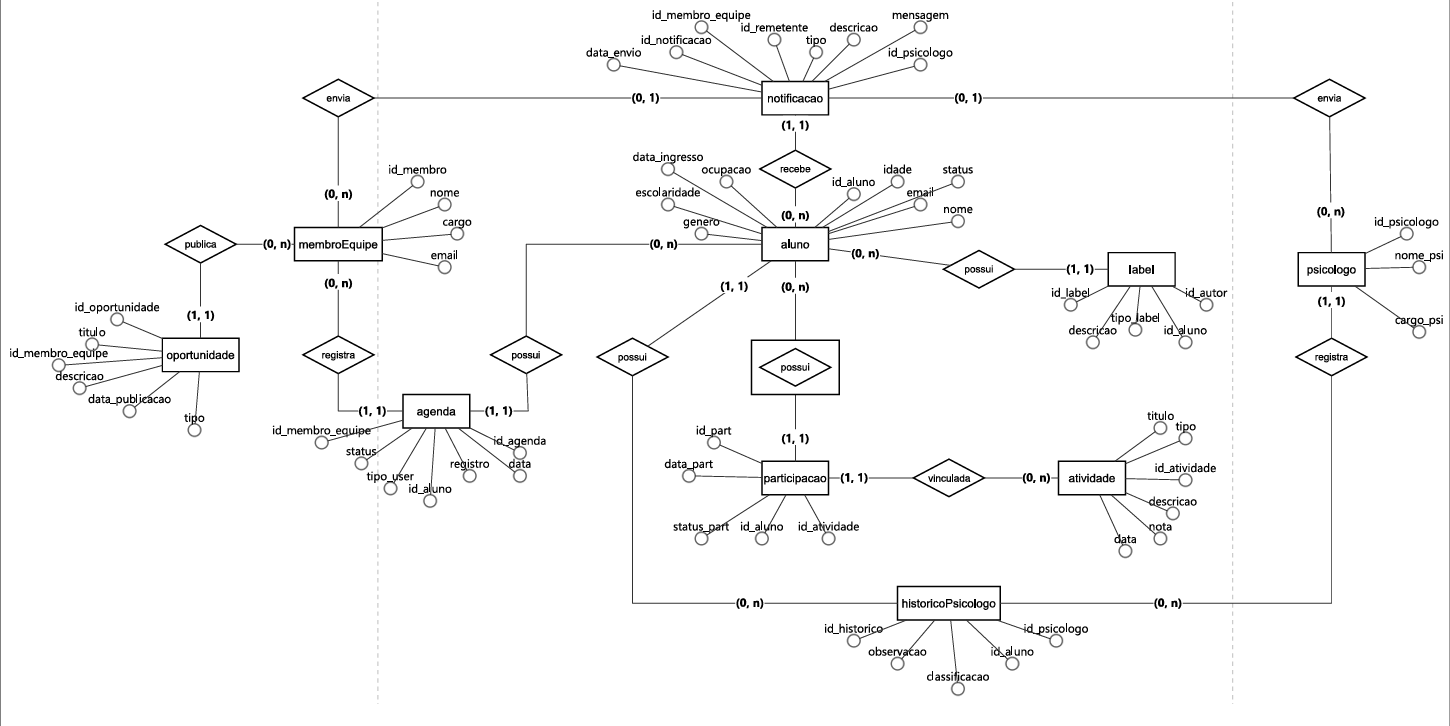
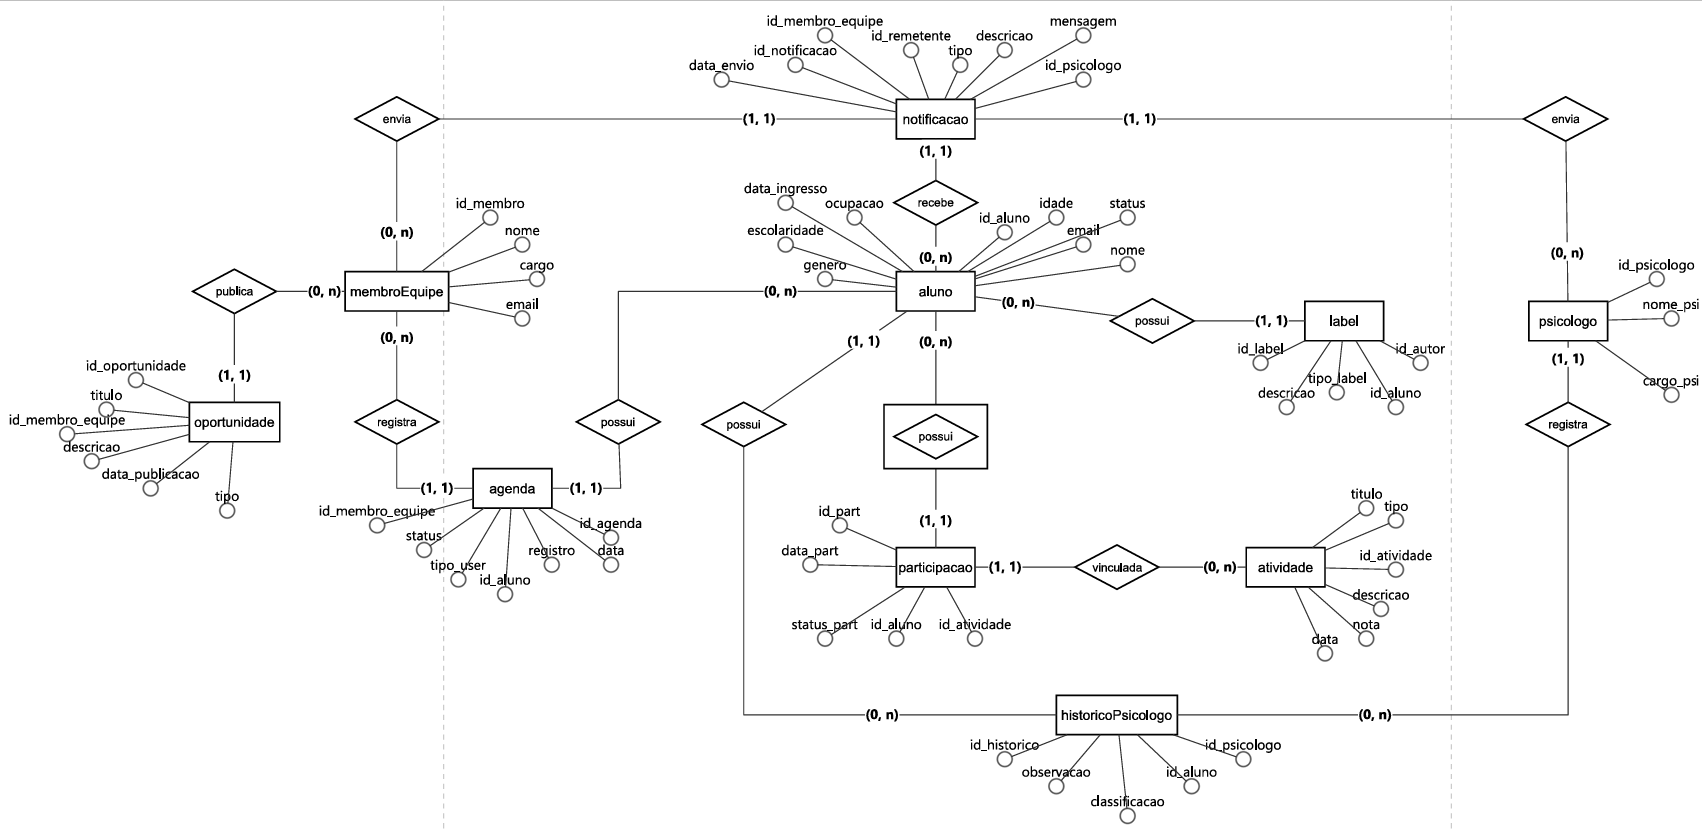
docs: Adicionando conteúdo na seção 3.6.1. closes #087

diff --git a/docs/wad.md b/docs/wad.md
@@ -781,6 +781,12 @@ Um diagrama de Modelo Entidade-Relacionamento (MER) é uma representação visua
 
 A partir destes conceitos e utilizando como base o TAPI e outros materiais disponibilizados pelos pelo parceiro, foram mapeadas as entidades que serão a base para o desenvolvimento de novas funcionalidades do projeto, além de seus atributos, importantes para o funcionamento adequado das funcionalidades. Essas entidades e atributos estão explicitados na seguinte imagem:
 
+<div align = "center">
+<sup>Figura 9: Modelo conceitual Entidade-Relacionamento utilizando Chen.</sup><br>
+<img src="./assets/mer.png"><br>
+<sub>Fonte: Autoria própria (2026). </sub><br>
+</div>
+
 
 Dentro do modelo conceitual, estão explicitadas as relações entre as entidades, sendo estas:
 
